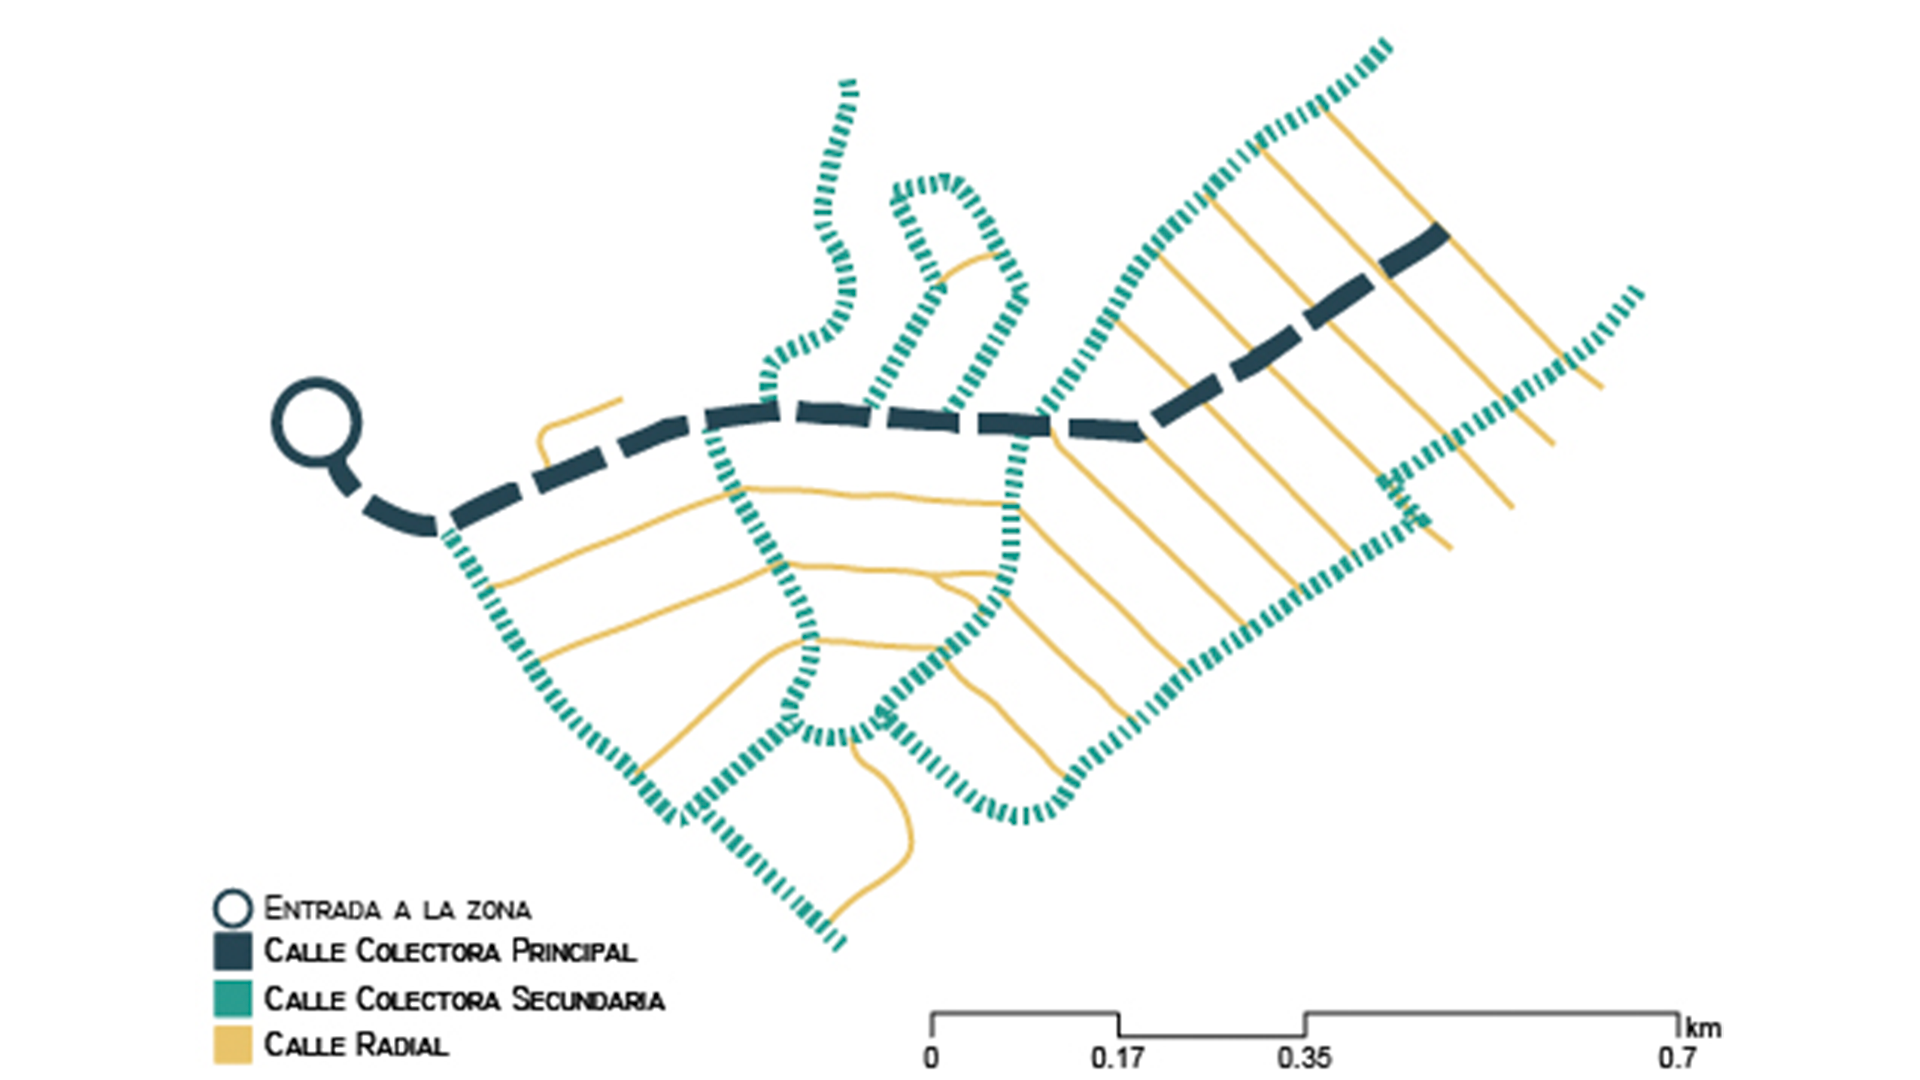
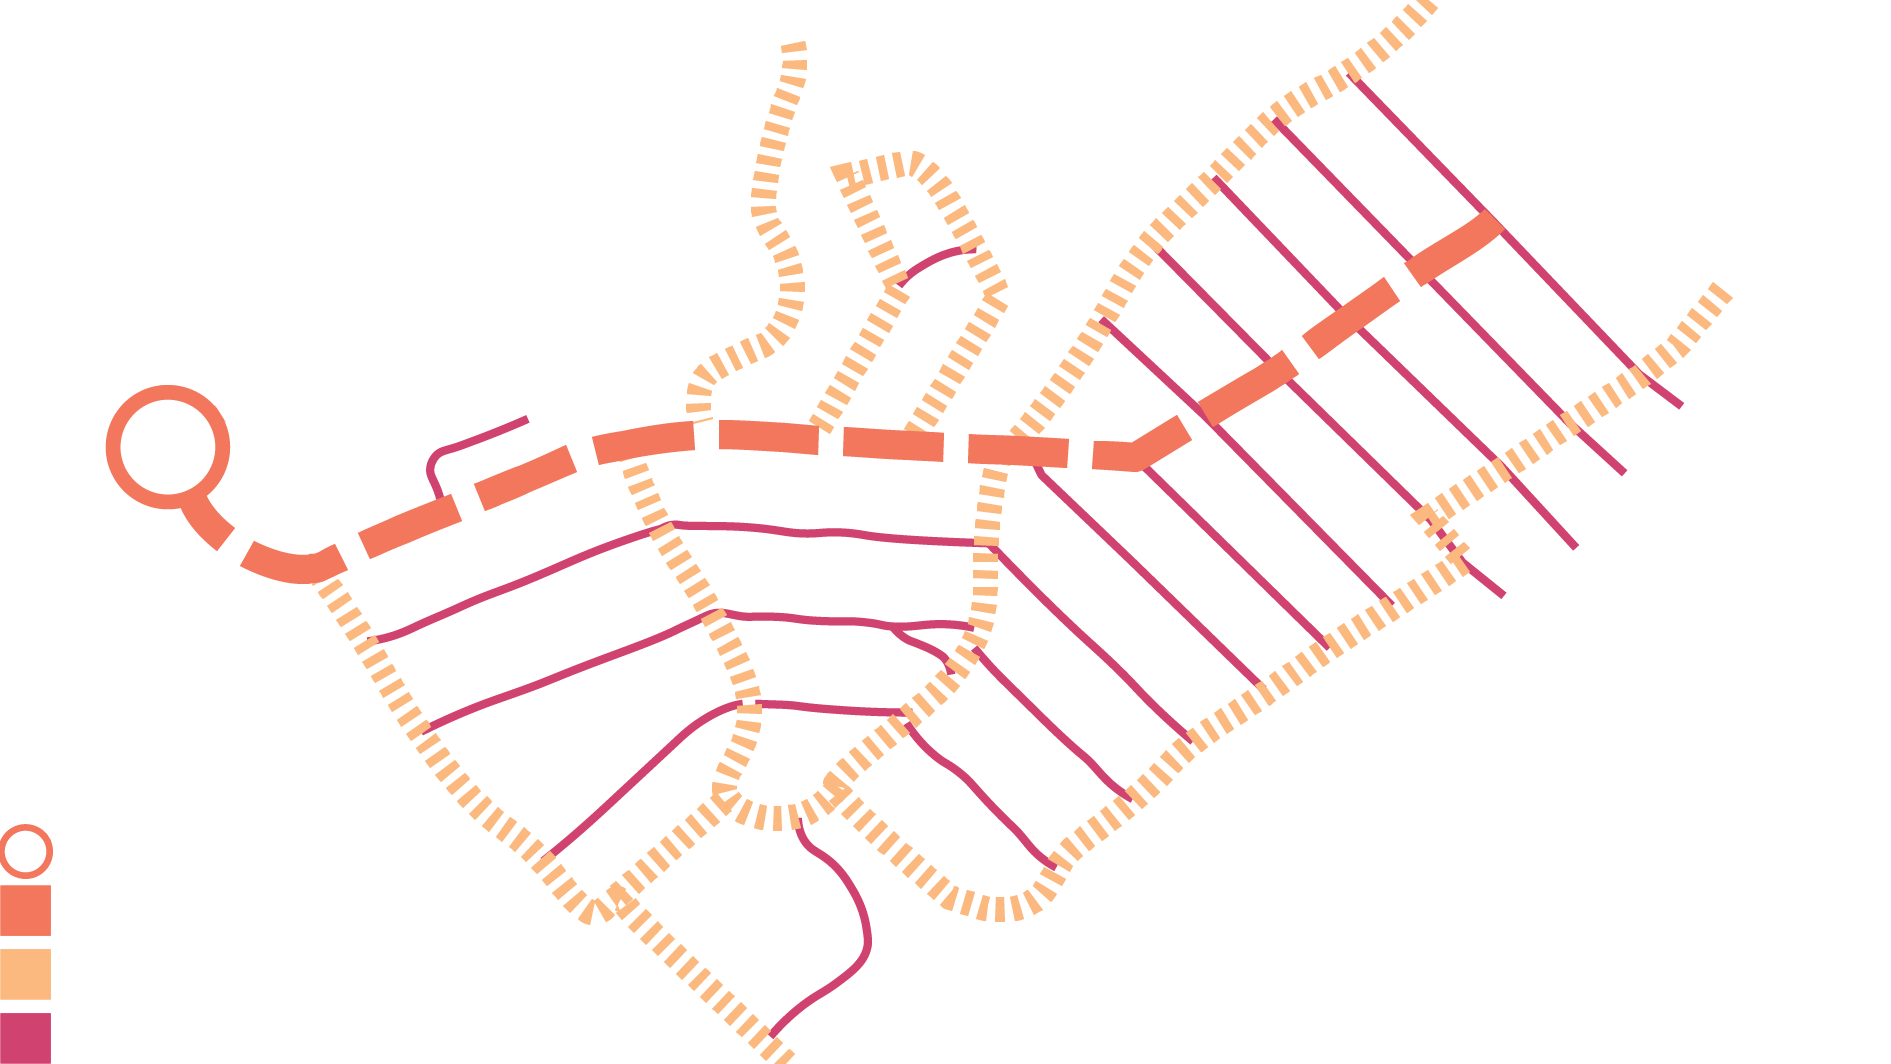
added new changes, fix colors and add new indicator

diff --git a/atlas.html b/atlas.html
@@ -44,7 +44,7 @@
 
 <!--http://senseable.mit.edu/trainsofdata/-->
     <div class="uk-padding uk-light" style="padding-bottom: 0 !important;padding-top: 20px;padding-left: 65px; padding-bottom: 0px!important" id="maps-container1">
-        <h1  style="font-weight: 650;font-size: 400%;" id="atlas-title">Atlas de Calles</h1>
+        <h1  style="font-weight: 650;font-size: 400%;" id="atlas-title">Morfología de Calles</h1>
     </div>
     
     <div class="uk-grid-match uk-grid-collapse uk-child-width-expand@s" uk-grid>
@@ -52,15 +52,38 @@
             <div class="uk-padding uk-light" style="padding-top: 0 !important;padding-left: 65px;padding-bottom: 0px!important" id="maps-container1">
                 <article class="uk-article">
 
+                    <p class="uk-text-lead">Tipología de la estructura vial de Monterrey</p>
+
                     <h1  id="complex-title">Nuevos suburbios</h1>
 
-                    <p class="uk-text-lead">Tipología de la estructura vial de Monterrey</p>
                     <div>
                         <p class="uk-text-justify" id="cluster-text">Este cluster está compuesto por calles mayoritariamente radiales que hacen uso de calles colectoras para conectarse entre sí. Las comunidades que lo componen se encuentran en la periferia, y en secciones urbanas o “manchas” no integradas al AMM. El cluster representa zonas exclusivamente residenciales, con viviendas de baja a media densidad. La red de calles muestra una alta centralidad de grado, con muchas conexiones entre los nodos de las comunidades, y una intermediación baja, donde pocos nodos forman parte del camino más corto entre dos lugares.</p>
                     </div>
                     <div>
-                        
-                        
+                        <table class="uk-table">
+                            <tbody>
+                                <tr>
+                                    <td>Tipo de calle</td>
+                                    <td class="uk-table-expand"><progress id="js-progressbar1" class="uk-progress" value="1" max="5"></progress></td>
+                                </tr>
+                                <tr>
+                                    <td>Centricidad</td>
+                                    <td class="uk-table-expand"><progress id="js-progressbar2" class="uk-progress" value="1" max="5"></progress></td>
+                                </tr>
+                                <tr>
+                                    <td>Relación empleo vivienda</td>
+                                    <td class="uk-table-expand"><progress id="js-progressbar3" class="uk-progress" value="1" max="5"></progress></td>
+                                </tr>
+                                <tr>
+                                    <td>Densidad</td>
+                                    <td class="uk-table-expand"><progress id="js-progressbar4" class="uk-progress" value="1" max="5"></progress></td>
+                                </tr>
+                                <tr>
+                                    <td>Relación empleos vivienda</td>
+                                    <td class="uk-table-expand"><progress id="js-progressbar5" class="uk-progress" value="1" max="5"></progress></td>
+                                </tr>
+                            </tbody>
+                        </table>
                     </div>
                 </article>
             </div>
@@ -69,7 +92,7 @@
             <div class="uk-padding uk-light" style="padding-top: 0 !important; padding-right: 65px;padding-bottom: 10px !important;" id="maps-container">
                 <div class="uk-grid-match uk-grid-medium uk-child-width-expand@s uk-text-center" uk-grid>
                     <div>
-                        <div class="uk-card uk-card-default uk-card-body">
+                        <div class="uk-card uk-card-default uk-card-body" style="background-color: #272727;">
                             <div>
                                 <img src="/img/Mapas/1c_1.png" alt="" uk-img class="map-atlas" id="map-cluster" uk-toggle="target: #modal-map" style='max-width: 100%; max-height: 100%'>
                             </div>
@@ -80,13 +103,13 @@
                         <div class="uk-grid-match uk-card ">
                             <div class="uk-grid-medium  uk-child-width-1-1@s uk-grid-medium uk-text-center" uk-grid>  
                                 <div>
-                                    <div class="uk-card uk-card-default">
-                                        <img src="/img/Diagramas/Cluster 1-100.jpg"  alt="" uk-img id="diagram-cluster" uk-toggle="target: #modal-diagram">
+                                    <div class="uk-card uk-card-default" style="background-color: #272727;">
+                                        <img src="/img/Diagramas/Cluster 1-100.png"  alt="" uk-img id="diagram-cluster" uk-toggle="target: #modal-diagram" style="padding: 1rem;">
                                     </div>
                                 </div>
                                 <div>
-                                    <div class="uk-card uk-card-default">
-                                        <img src="/img/Diagramas/Cluster 1-100.jpg"  alt="" id="video-cluster" uk-toggle="target: #modal-video">
+                                    <div class="uk-card uk-card-default" style="background-color: #272727;">
+                                        <img src="/img/Diagramas/Cluster 1-100.png"  alt="" id="video-cluster" uk-toggle="target: #modal-video" style="padding: 1rem;">
                                     </div>
                                 </div>
                             </div>
@@ -106,47 +129,47 @@
                         <ul class="uk-slider-items uk-child-width-1-2 uk-child-width-1-3@s uk-child-width-1-5@m  uk-grid">
                             <li class="uk-transition-toggle" tabindex="0" onclick="showCluster(1)">
                                 <img src="/img/Diagramas/Cluster 1-100.png" alt="">
-                                <div class="uk-position-center uk-panel"><h1 class="uk-transition-slide-bottom-small" style="color: black;">1</h1></div>
+                                <div class="uk-position-center uk-panel"><h1 class="uk-transition-slide-bottom-small" style="color: whitesmoke;">1</h1></div>
                             </li>
                             <li class="uk-transition-toggle" tabindex="0" onclick="showCluster(2)">
                                 <img src="/img/Diagramas/Cluster 2-100.png" alt="">
-                                <div class="uk-position-center uk-panel"><h1 class="uk-transition-slide-bottom-small" style="color: black;">2</h1></div>
+                                <div class="uk-position-center uk-panel"><h1 class="uk-transition-slide-bottom-small" style="color: whitesmoke;">2</h1></div>
                             </li>
                             <li class="uk-transition-toggle" tabindex="0" onclick="showCluster(3)">
                                 <img src="/img/Diagramas/Cluster 3-100.png" alt="">
-                                <div class="uk-position-center uk-panel"><h1 class="uk-transition-slide-bottom-small" style="color: black;">3</h1></div>
+                                <div class="uk-position-center uk-panel"><h1 class="uk-transition-slide-bottom-small" style="color: whitesmoke;">3</h1></div>
                             </li>
                             <li class="uk-transition-toggle" tabindex="0" onclick="showCluster(4)">
                                 <img src="/img/Diagramas/Cluster 4-100.png" alt="">
-                                <div class="uk-position-center uk-panel"><h1 class="uk-transition-slide-bottom-small" style="color: black;">4</h1></div>
+                                <div class="uk-position-center uk-panel"><h1 class="uk-transition-slide-bottom-small" style="color: whitesmoke;">4</h1></div>
                             </li>
                             <li class="uk-transition-toggle" tabindex="0" onclick="showCluster(5)">
                                 <img src="/img/Diagramas/Cluster 5-100.png" alt="">
-                                <div class="uk-position-center uk-panel"><h1 class="uk-transition-slide-bottom-small" style="color: black;">5</h1></div>
+                                <div class="uk-position-center uk-panel"><h1 class="uk-transition-slide-bottom-small" style="color: whitesmoke;">5</h1></div>
                             </li>
                             <li class="uk-transition-toggle" tabindex="0" onclick="showCluster(6)">
                                 <img src="/img/Diagramas/Cluster 6-100.png" alt="">
-                                <div class="uk-position-center uk-panel"><h1 class="uk-transition-slide-bottom-small" style="color: black;">6</h1></div>
+                                <div class="uk-position-center uk-panel"><h1 class="uk-transition-slide-bottom-small" style="color: whitesmoke;">6</h1></div>
                             </li>
                             <li class="uk-transition-toggle" tabindex="0" onclick="showCluster(7)">
                                 <img src="/img/Diagramas/Cluster 7-100.png" alt="">
-                                <div class="uk-position-center uk-panel"><h1 class="uk-transition-slide-bottom-small" style="color: black;">7</h1></div>
+                                <div class="uk-position-center uk-panel"><h1 class="uk-transition-slide-bottom-small" style="color: whitesmoke;">7</h1></div>
                             </li>
                             <li class="uk-transition-toggle" tabindex="0" onclick="showCluster(8)">
                                 <img src="/img/Diagramas/Cluster 8-100.png" alt="">
-                                <div class="uk-position-center uk-panel"><h1 class="uk-transition-slide-bottom-small" style="color: black;">8</h1></div>
+                                <div class="uk-position-center uk-panel"><h1 class="uk-transition-slide-bottom-small" style="color: whitesmoke;">8</h1></div>
                             </li>
                             <li class="uk-transition-toggle" tabindex="0" onclick="showCluster(9)">
                                 <img src="/img/Diagramas/Cluster 9-100.png" alt="">
-                                <div class="uk-position-center uk-panel"><h1 class="uk-transition-slide-bottom-small" style="color: black;">9</h1></div>
+                                <div class="uk-position-center uk-panel"><h1 class="uk-transition-slide-bottom-small" style="color: whitesmoke;">9</h1></div>
                             </li>
                             <li class="uk-transition-toggle" tabindex="0" onclick="showCluster(10)">
                                 <img src="/img/Diagramas/Cluster 10-100.png" alt="">
-                                <div class="uk-position-center uk-panel"><h1 class="uk-transition-slide-bottom-small" style="color: black;">10</h1></div>
+                                <div class="uk-position-center uk-panel"><h1 class="uk-transition-slide-bottom-small" style="color: whitesmoke;">10</h1></div>
                             </li>
                             <li class="uk-transition-toggle" tabindex="0" onclick="showCluster(11)">
                                 <img src="/img/Diagramas/Cluster 11-100.png" alt="">
-                                <div class="uk-position-center uk-panel"><h1 class="uk-transition-slide-bottom-small" style="color: black;">11</h1></div>
+                                <div class="uk-position-center uk-panel"><h1 class="uk-transition-slide-bottom-small" style="color: whitesmoke;">11</h1></div>
                             </li>
                         </ul>
                     </div>
@@ -172,23 +195,22 @@
     <!-- Modals-->
     <!--Map-->
     <div id="modal-map" uk-modal>
-        <div class="uk-modal-dialog uk-modal-body">
+        <div class="uk-modal-dialog uk-modal-body" style="background-color: #272727;">
             <div style="height: 80vh;">
                 <img src="/img/Mapas/1c_1.png"  alt="" uk-img class="map-atlas" id="map-cluster">
             </div>
-            
         </div>
     </div>
     <!--Diagram-->
     <div id="modal-diagram" uk-modal>
-        <div class="uk-modal-dialog uk-modal-body">
-            <img src="/img/Diagramas/Cluster 1-100.jpg"  alt="" uk-img id="diagram-cluster">
+        <div class="uk-modal-dialog uk-modal-body" style="background-color: #272727;">
+            <img src="/img/Diagramas/Cluster 1-100.png"  alt="" uk-img id="diagram-cluster">
         </div>
     </div>
     <!--Video-->
     <div id="modal-video" uk-modal>
-        <div class="uk-modal-dialog uk-modal-body">
-            <img src="/img/Diagramas/Cluster 1-100.jpg"  alt="" id="video-cluster">
+        <div class="uk-modal-dialog uk-modal-body" style="background-color: #272727;">
+            <img src="/img/Diagramas/Cluster 1-100.png"  alt="" id="video-cluster">
         </div>
     </div>
 
@@ -220,6 +242,7 @@
                 let map = data_json.calles[cluster].map;
                 let diagram = data_json.calles[cluster].diagram;
                 let video = data_json.calles[cluster].video;
+                let indicadores = data_json.calles[cluster].indicadores;
 
                 document.getElementById("complex-title").innerHTML = title;
                 document.getElementById("cluster-text").innerHTML = description;
@@ -227,6 +250,13 @@
                 document.getElementById("map-cluster").src =  map;
                 document.getElementById("diagram-cluster").src = diagram;
                 document.getElementById("video-cluster").src = video;
+
+                document.getElementById("js-progressbar1").value =indicadores[0];
+                document.getElementById("js-progressbar2").value =indicadores[1];
+                document.getElementById("js-progressbar3").value =indicadores[2];
+                document.getElementById("js-progressbar4").value =indicadores[3];
+                document.getElementById("js-progressbar5").value =indicadores[4];
+
             })
         }
         showCluster(1);

diff --git a/style.css b/style.css
@@ -263,3 +263,9 @@ hr.rounded {
 #selection{
     color: hotpink !important;
 }
+.uk-modal-dialog{
+    width: 1000 !important;
+}
+.uk-transition-toggle{
+    max-width: 300;
+}
